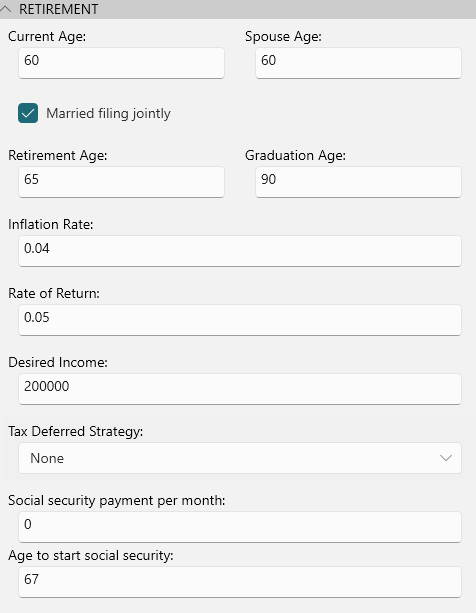
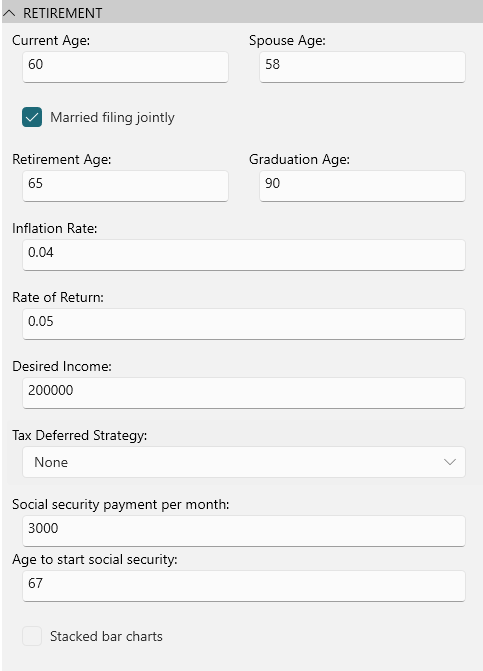
update docs

diff --git a/Source/WPF/MyMoney/Reports/RetirementPlan.cs b/Source/WPF/MyMoney/Reports/RetirementPlan.cs
@@ -383,7 +383,11 @@ namespace Walkabout.Reports
                     taxFreeIncomeSeries.Add(new ChartDataValue() { Label = age.ToString(), Value = (double)taxFreeIncome, Color = taxFreeIncomeColor, UserData = ChartValueTaxFree });
                     socialSecurityIncomeSeries.Add(new ChartDataValue() { Label = age.ToString(), Value = (double)socialSecurityIncome, Color = socialSecurityIncomeColor, UserData = ChartValueSocialSecurity });
 
-                    decimal grossUp = baseIncome - taxableIncome - taxDeferredIncome - taxFreeIncome - socialSecurityIncome;
+                    decimal grossUp = baseIncome - taxableIncome - taxDeferredIncome - socialSecurityIncome;
+                    if (grossUp < 0)
+                    {
+                        grossUp = 0;
+                    }
                     grossIncomeSeries.Add(new ChartDataValue() { Label = age.ToString(), Value = (double)grossUp, Color = grossIncomeColor, UserData = ChartValueGross });
 
                     taxesSeries.Add(new ChartDataValue() { Label = age.ToString(), Value = (double)taxes, Color = taxColor });
@@ -498,6 +502,9 @@ namespace Walkabout.Reports
                 this.Taxable = this.Taxable * (1 + investmentRateOfReturn);
                 this.TaxDeferred = this.TaxDeferred * (1 + investmentRateOfReturn);
                 this.TaxFree = this.TaxFree * (1 + investmentRateOfReturn);
+
+                // as investments increased, the cost basis then also decreases by the same amount.
+                this.CostBasisRatio *= (1 - investmentRateOfReturn);
             }
 
             private static (decimal Rate, decimal Threshold)[] JointBracket = new (decimal, decimal)[]

diff --git a/docs/Reports/RetirementPlanReport.md b/docs/Reports/RetirementPlanReport.md
@@ -1,64 +1,63 @@
 # Retirement Plan Report
 
-If you have a brokerage account containing taxable assets,
-perhaps also some tax deferred accounts like 401k or traditional
-IRA, and some tax free accounts like a Roth IRA, this report can
-plot out what your retirement income would look like, how your
-retirement funds could be used, and lets you explore whether you
-should attempt a Roth conversion on any tax deferred accounts.
+If you have a brokerage account containing taxable assets, perhaps also some tax deferred accounts like 401k or
+traditional IRA, and some tax free accounts like a Roth IRA, this report can plot out what your retirement income would
+look like, how your retirement funds could be used, and lets you explore whether you should do a Roth conversion on any
+tax deferred accounts.
 
-To setup the report you need to enter some values in the RETIREMENT
-details as follows:
+To setup the report you need to enter some values in the RETIREMENT details as follows:
 
 ![retirement settings](../Images/RetirementSettings.png)
 
 Then you will see the following if you started with:
+
 - $3.7 million in a taxable brokerage account (with some cost basis)
 - $1.4 million in a 401k account
 - $2 million in a Roth IRA tax free account.
 
 The first part of the report shows a summary of assets remaining at the end date (in this case age 90):
 
-- Assets remaining at age : 90 = $8,108,402
+- Assets remaining at age : 90 = $8,071,236
 - Taxable assets = $0
-- Tax deferred assets = $415569
-- Tax free assets = $7,692,832
-- Total taxes paid during retirement = $1,496,769
+- Tax deferred assets = $402,249
+- Tax free assets = $7,668,987
+- Total taxes paid during retirement = $1,431,130
 
-And then it shows some charts, the first one is a chart showing how
-each class of asset grows and/or is drawn down over the years as follows:
+And then it shows some charts, the first one is a chart showing how each class of asset grows and/or is drawn down over
+the years as follows:
 
 ![retirement networth](../Images/RetirementNetworth.png)
 
-The next chart shows where your retirement income is coming from,
-with different color bars for different types of income. The tallest
-bar is gross income needed to pay the taxes. The rest add up to the desired income you specified in the settings:
+The next chart shows where your retirement income is coming from, with different color bars for different types of
+income. The darker brown bar is the additional income you need to take in order to pay the necessary taxes (if any).
 
 ![retirement income](../Images/RetirementIncome.png)
 
-This shows that you start off tapping into taxable assets until age
-75 when required minimum distribution kicks in on your tax deferred
-accounts. In this case we start a bit earlier at 73 because by then
-your taxable account is empty.  Then by 79 the tax deferred account
-is empty and you switch to tax free assets until age 90.  Fortunately the tax free account had plenty of time to grow so this
-will see you though nicely.
+This shows that you start off tapping into taxable assets until age 75 when required minimum distribution kicks in on
+your tax deferred accounts. In this case we start a bit earlier at 73 because by then your taxable account is empty.
+Then by 79 the tax deferred account is empty and you switch to tax free assets until age 90.  Fortunately the tax free
+account had plenty of time to grow so this will see you though nicely.
 
-The final chart shows how much tax you had to pay each year which
-is paid from your retirement funds (over and above the desired income):
+The final chart shows how much tax you had to pay each year which is paid from your retirement funds (over and above the
+desired income):
 
 ![retirement taxes](../Images/RetirementTaxes.png)
 
-Here you see the jump in taxes when RMD's kick in or when you enter
-a new tax bracket. Retirement planning is often about managing those
-tax brackets.
+Here you normally see a jump in taxes when any Tax Deferred account required minimum distributions (RMD's) kick in or
+when you enter a new tax bracket. Retirement planning is often about managing those tax brackets.
 
-You can then try different strategies on your tax deferred account
-to see if you can minimize the total tax.  For example, the above
-report has a total tax of $1,496,769, but if you switch to the
-Roth Conversion strategy over 5 years you will see a drop in taxes
-to $983,872 and an increase in the remaining net worth at age 90.
+You can then try different strategies on your tax deferred account to see if you can minimize the total tax.  For
+example if you enable the Roth Conversion strategy over 10 years you will see the following improvements:
 
+| Metric | Without Roth conversion | With Roth conversion |
+| --- | ---: | ---: |
+| Net worth at age 90 | $8,071,236 | $8,427,076 |
+| Total taxes | $1,431,130 | $919,341 |
 
+This is a nice win/win situation.  This is not always the case, it depends on your situation.  In this case the Roth
+conversion probably helps by reducing any additional taxes incurred by RMD's.
+The Roth conversion is also great for estate planning as tax free accounts do not pass on a tricky tax burden to your beneficiaries.
 
-
-
+Note that all of this is just an estimate based on the inflation rate and rate of return predictions you provided and it
+does not compute your real cost basis for capital gains taxes, it uses an estimated capital gains based on your current
+holdings.
